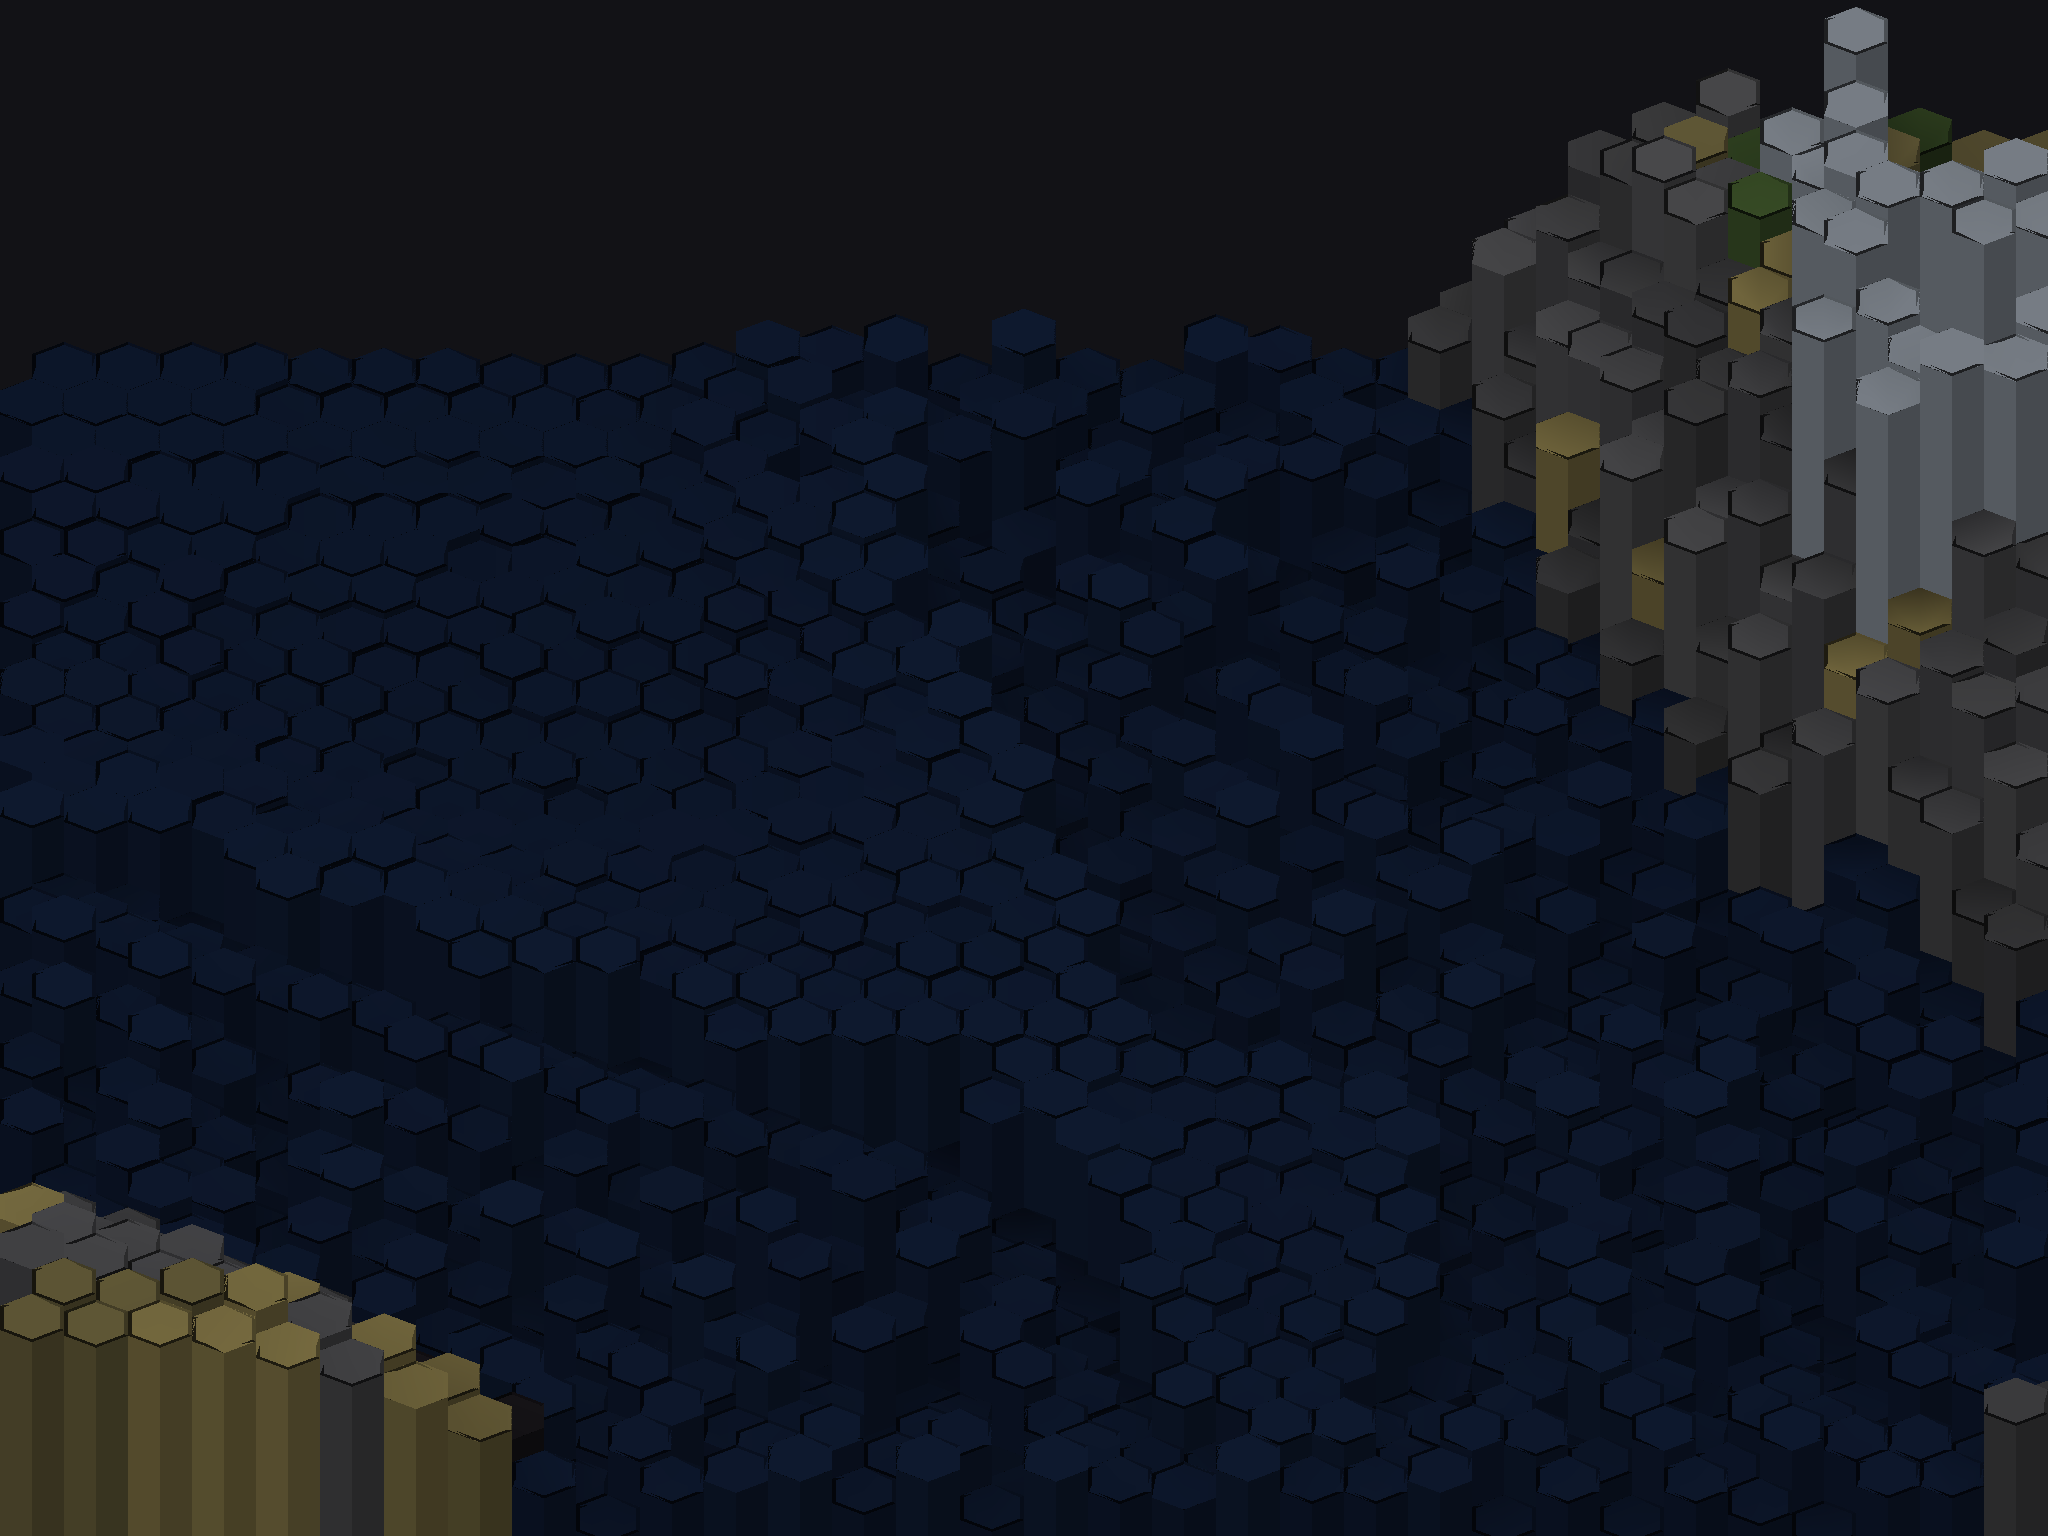
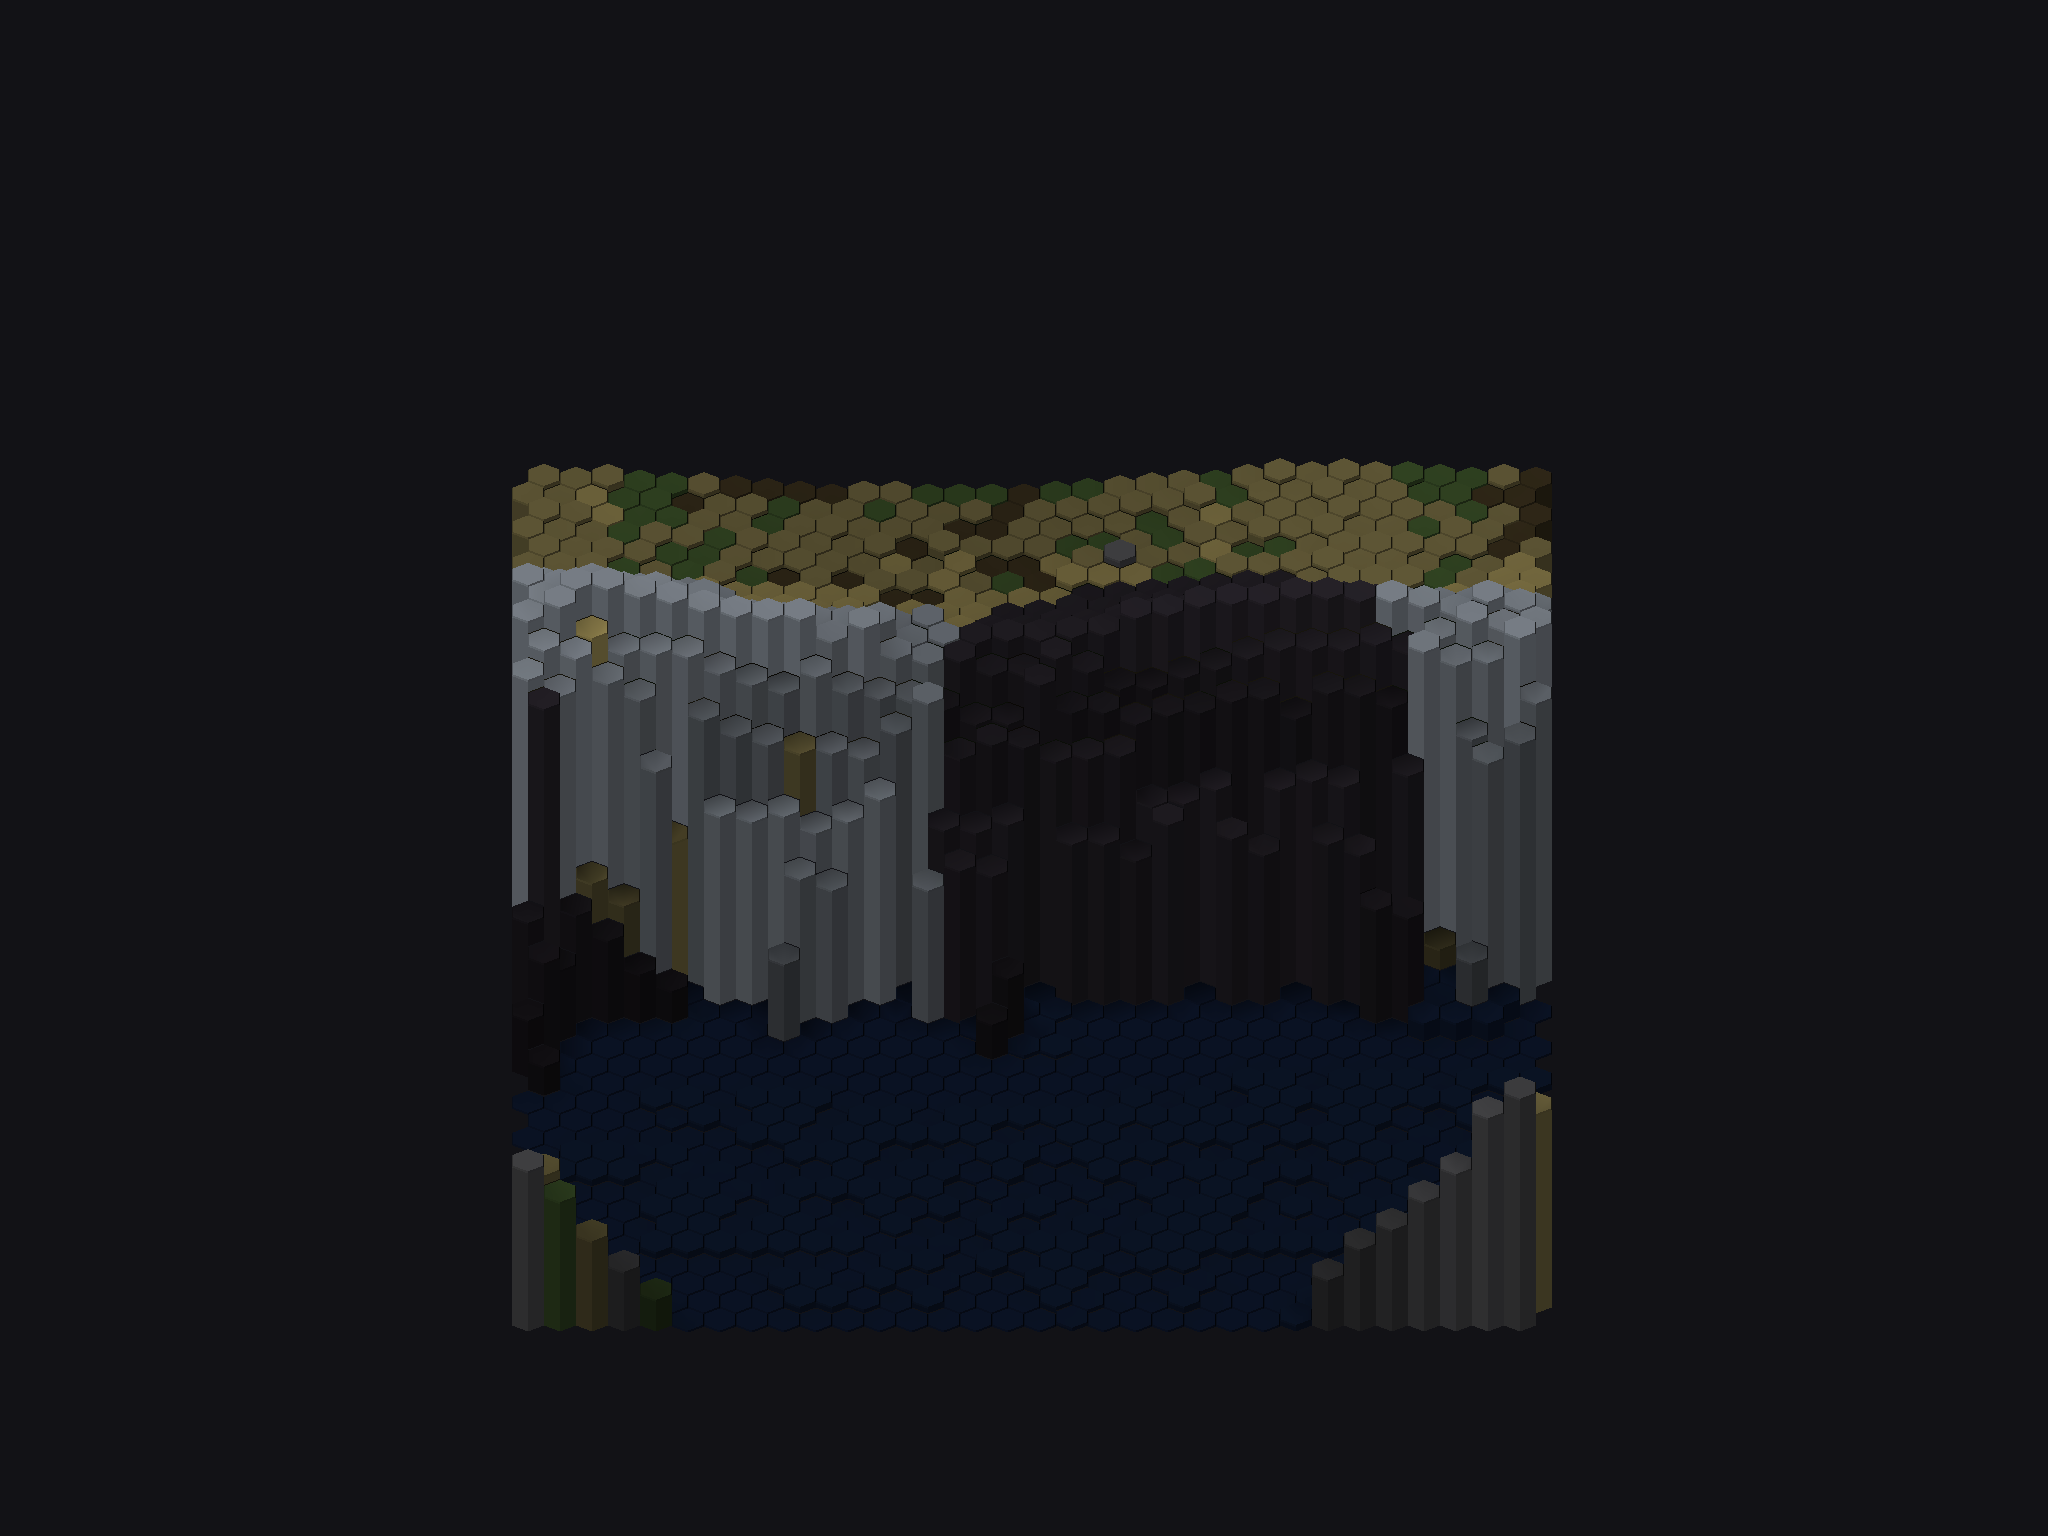
fix(render): R-14 bevel geometry — 45° chamfer with proper normals
Rebuild coplanar (flat) bevel as genuine 3D chamfer:
- Top face: shrunk inner hexagon at height h
- Chamfer ring: 6 quads from h to h - bevel_drop
- 45° slope: bevel_drop = HEX_SIZE * BEVEL_FRAC
- Thin rim: BEVEL_FRAC = 0.08
- Normal: from actual quad geometry

Parity: byte-identical. Closes PR #441.

Claude-Session: https://claude.ai/code/session_01KSFzwj8cXU3wLePgNZWAra

diff --git a/v2/crates/render/src/terrain.rs b/v2/crates/render/src/terrain.rs
@@ -9,15 +9,16 @@
 //! R-3: Each chunk carries a world-space AABB for frustum culling.
 
 use crate::biome_palette::{surface_color_v2, cliff_shade, apply_directional_shading, ColorMode};
-use crate::hex::{edge_for_direction, hex_center, hex_corner, neighbors, HEIGHT_SCALE};
+use crate::hex::{edge_for_direction, hex_center, hex_corner, neighbors, HEIGHT_SCALE, HEX_SIZE};
 use macroquad::models::{Mesh, Vertex};
 use macroquad::prelude::*;
 use sim_core::{Vec2Fixed, WorldView};
 use std::f32::consts::PI;
 
 /// Bevel fraction: shrink the top hexagon by this fraction of HEX_SIZE for the chamfer ring.
-/// ~0.12 keeps the bevel subtle but visibly "toy-ish".
-const BEVEL_FRAC: f32 = 0.12;
+/// ~0.08 keeps the bevel as a thin 45° rim at the very top edge (not a tall shoulder).
+/// The vertical drop is set equal to the horizontal inset (HEX_SIZE * BEVEL_FRAC) for a 45° slope.
+const BEVEL_FRAC: f32 = 0.08;
 
 /// Per-mesh-kind vertex count maximum. Hex with bevel: ~54 verts/cell worst case.
 /// Cube: ~30 verts/cell. Used for adaptive rows_per_chunk and capacity assertions.
@@ -155,13 +156,25 @@ fn build_chunk(
                 top_color
             };
 
-            // Top face: 6 corners, fan-triangulated from corner 0 (4 triangles, 6 unique verts).
-            // Add AO baking per vertex.
+            // Bevel: shrink the top hexagon by BEVEL_FRAC toward center. These inner corners form the
+            // TOP FACE of the shrunk hexagon; the OUTER corners drop by BEVEL_DROP to form the chamfer ring.
+            let center = Vec3::new(cx, h, cz);
+            let bevel_corners: Vec<Vec3> = (0..6)
+                .map(|k| {
+                    let pos = hex_corner(cx, cz, h, k);
+                    // Shrink toward center (horizontal only, keep full height h for top face)
+                    let toward_center = (center - pos) * BEVEL_FRAC;
+                    pos + toward_center
+                })
+                .collect();
+
+            // Top face: fan-triangulated from the shrunk (inner) hexagon at full height h.
+            // Vertices are the inner shrunk corners; AO baking darkens based on strictly-higher neighbors.
             let base = vertices.len() as u16;
             let top_normal = Vec3::new(0.0, 1.0, 0.0); // Top face normal (pointing up)
             for k in 0..6 {
                 let ao_factor = calculate_vertex_ao(col, row, k, world_dim, world);
-                let pos = hex_corner(cx, cz, h, k);
+                let pos = bevel_corners[k];
                 let ao_color = Color::new(
                     top_color_bare.r * ao_factor,
                     top_color_bare.g * ao_factor,
@@ -174,44 +187,41 @@ fn build_chunk(
                 indices.extend_from_slice(&[base, base + k, base + k + 1]);
             }
 
-            // Bevel: shrink the top hexagon by BEVEL_FRAC and add 6 chamfer quads
-            let bevel_corners: Vec<Vec3> = (0..6)
-                .map(|k| {
-                    let pos = hex_corner(cx, cz, h, k);
-                    // Shrink toward center: pos + (center - pos) * BEVEL_FRAC
-                    let center = Vec3::new(cx, h, cz);
-                    let toward_center = (center - pos) * BEVEL_FRAC;
-                    pos + toward_center
-                })
-                .collect();
-
-            // Emit 6 bevel quads (one per edge)
+            // Bevel quads: 6 chamfer quads connecting inner corners (at height h) to outer corners
+            // (at height h - bevel_drop). The drop equals the inset (HEX_SIZE * BEVEL_FRAC) for a 45° slope.
+            let bevel_drop = HEX_SIZE * BEVEL_FRAC;
             for k in 0..6 {
-                let outer_a = hex_corner(cx, cz, h, k);
-                let outer_b = hex_corner(cx, cz, h, (k + 1) % 6);
                 let inner_a = bevel_corners[k];
                 let inner_b = bevel_corners[(k + 1) % 6];
+                let outer_a = Vec3::new(hex_corner(cx, cz, h, k).x, h - bevel_drop, hex_corner(cx, cz, h, k).z);
+                let outer_b = Vec3::new(hex_corner(cx, cz, h, (k + 1) % 6).x, h - bevel_drop, hex_corner(cx, cz, h, (k + 1) % 6).z);
 
-                // Bevel quad normal: slightly tilted (not flat top) for lighting
-                let edge_vec = (outer_b - outer_a).normalize();
-                let inward_vec = (Vec3::new(cx, h, cz) - outer_a).normalize();
-                let mut bevel_normal = (edge_vec.cross(Vec3::new(0.0, 1.0, 0.0)) + inward_vec * 0.3).normalize();
+                // Bevel quad normal: computed from actual quad geometry (includes vertical slope).
+                // For a quad (inner_a, inner_b, outer_b, outer_a), the normal is:
+                // (inner_b - inner_a) × (outer_b - inner_b), which naturally includes the Y component
+                // from the 45° slope (outer corners drop by bevel_drop).
+                let edge1 = inner_b - inner_a;  // Top edge (horizontal)
+                let edge2 = outer_b - inner_b;  // Diagonal edge (includes vertical drop)
+                let mut bevel_normal = edge1.cross(edge2).normalize();
+                // Ensure normal points outward-up (positive Y component)
                 if bevel_normal.y < 0.0 {
                     bevel_normal = -bevel_normal;
                 }
 
                 let bevel_color = cliff_shade(top_color_bare);
                 let bbase = vertices.len() as u16;
-                vertices.push(vertex(outer_a, bevel_color, bevel_normal));
-                vertices.push(vertex(outer_b, bevel_color, bevel_normal));
-                vertices.push(vertex(inner_b, bevel_color, bevel_normal));
+                // Quad: inner_a, inner_b, outer_b, outer_a (forms a slanted rectangle)
                 vertices.push(vertex(inner_a, bevel_color, bevel_normal));
+                vertices.push(vertex(inner_b, bevel_color, bevel_normal));
+                vertices.push(vertex(outer_b, bevel_color, bevel_normal));
+                vertices.push(vertex(outer_a, bevel_color, bevel_normal));
                 indices.extend_from_slice(&[bbase, bbase + 1, bbase + 2, bbase, bbase + 2, bbase + 3]);
             }
 
             // Cliff quads: hidden-face removal (RnD 02 §3) — emit a side ONLY where the neighbour is
             // STRICTLY lower; an equal-or-higher neighbour covers that face, so skip it. Off-grid
             // neighbours (map edge) are treated as height 0 — draws a full cliff at the boundary.
+            // Cliff top edge now starts at h - bevel_drop (the outer rim of the bevel).
             let cliff_color = cliff_shade(top_color_bare);
             for (dir_i, &(ncol, nrow)) in neighbors(col, row).iter().enumerate() {
                 let nh = if (0..world_dim).contains(&ncol) && (0..world_dim).contains(&nrow) {
@@ -223,10 +233,12 @@ fn build_chunk(
                     continue;
                 }
                 let edge = edge_for_direction(dir_i);
-                let top_a = hex_corner(cx, cz, h, edge);
-                let top_b = hex_corner(cx, cz, h, (edge + 1) % 6);
-                let bot_a = Vec3::new(top_a.x, nh, top_a.z);
-                let bot_b = Vec3::new(top_b.x, nh, top_b.z);
+                let outer_a = hex_corner(cx, cz, h, edge);
+                let outer_b = hex_corner(cx, cz, h, (edge + 1) % 6);
+                let top_a = Vec3::new(outer_a.x, h - bevel_drop, outer_a.z);
+                let top_b = Vec3::new(outer_b.x, h - bevel_drop, outer_b.z);
+                let bot_a = Vec3::new(outer_a.x, nh, outer_a.z);
+                let bot_b = Vec3::new(outer_b.x, nh, outer_b.z);
                 let cliff_normal = hex_cliff_normal(dir_i);
                 let cbase = vertices.len() as u16;
                 vertices.push(vertex(top_a, cliff_color, cliff_normal));